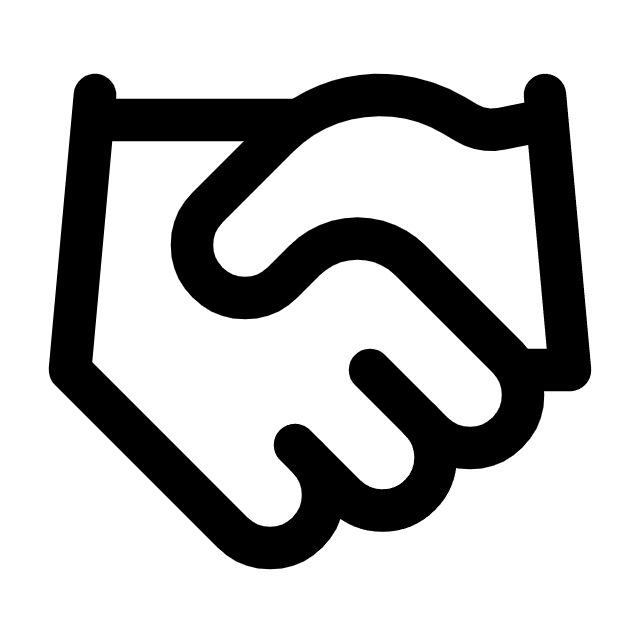
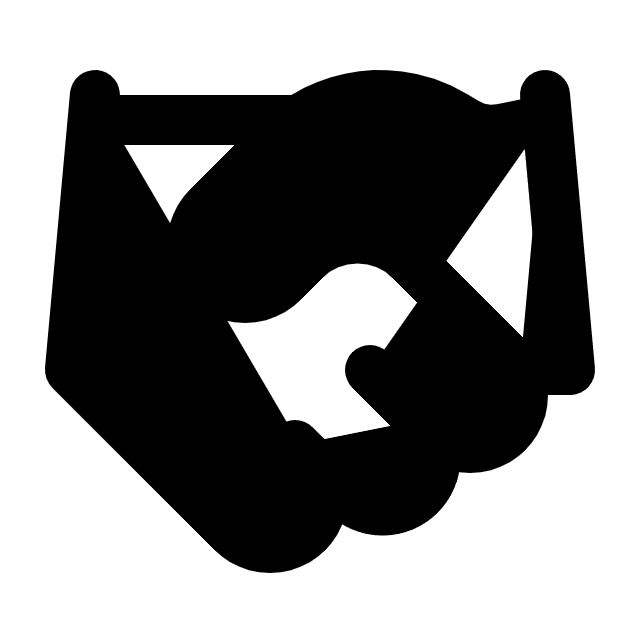
Contact: filled handshake centered above the form
Use a filled handshake silhouette (dense particles) and position it in
the reserved top zone of the contact section, above the form card.

diff --git a/wwwroot/assets/scene.js b/wwwroot/assets/scene.js
@@ -283,8 +283,8 @@ function init(renderer) {
       if (pts.length < 600) return;
 
       const nPix = pts.length / 2;
-      const s = 3.7 / Math.max(w, h);    // compact handshake icon in the left margin
-      const OFF_X = -2.75, OFF_Y = 0.1;
+      const s = 2.6 / Math.max(w, h);    // filled handshake, centred above the form
+      const OFF_X = 0, OFF_Y = 1.78;
       const cx0 = w / 2, cy0 = h / 2;
       for (let i = 0; i < N; i++) {
         const j = ((Math.random() * nPix) | 0) * 2;

diff --git a/wwwroot/assets/style.css b/wwwroot/assets/style.css
@@ -387,6 +387,9 @@ h3 { font-size: 1.2rem; margin-block-end: 0.35rem; }
 
 /* ===== Contact ===== */
 .contact-inner { width: 100%; }
+/* Reserve the top of the contact section for the handshake particle
+   graphic, so the form card sits below it. */
+#contact.panel { align-items: flex-end; padding-block-end: clamp(3rem, 7vh, 6rem); }
 .contact .lead { margin-block-end: 2.2rem; }
 
 /* Reviews — stacked column beside the star */